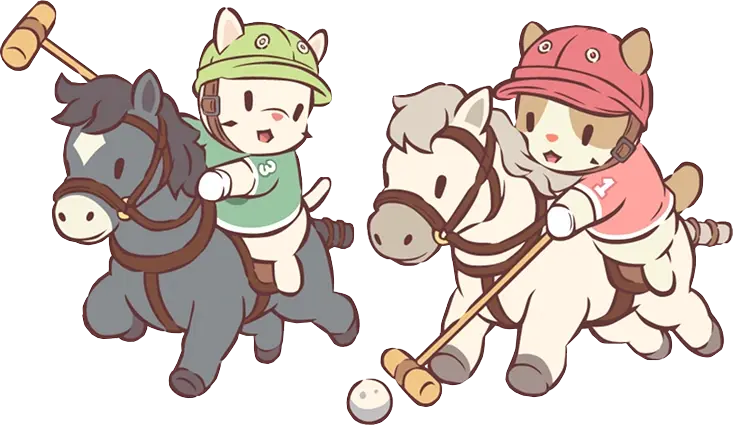
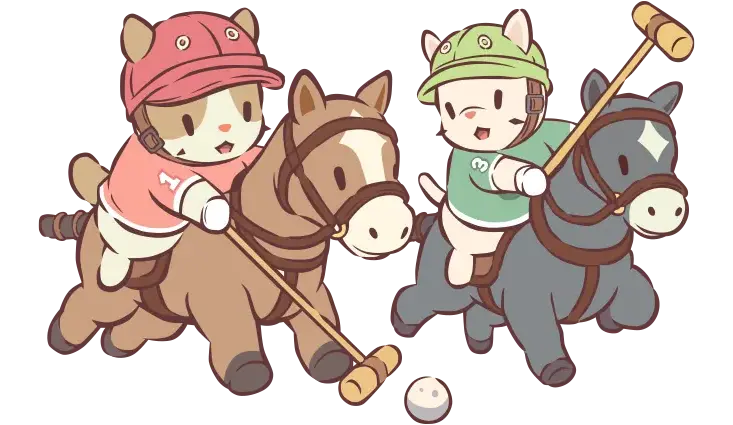
폴로 고양이 아트워크와 공유 이미지를 새 버전으로 교체

diff --git a/index.html b/index.html
@@ -24,7 +24,7 @@
      and thumbnails are fetched by kakao's servers rather than the reader's
      browser. The plain flux host the page is also uploaded to sits behind
      NEOWIZ SSO and hands a crawler a login page instead. -->
-<meta property="og:image" content="https://share-flux.ai.pmang.cloud/catsnsoup/assets/og-share.png">
+<meta property="og:image" content="https://share-flux.ai.pmang.cloud/catsnsoup/assets/og-share.png?v=110">
 <meta property="og:image:width" content="1200">
 <meta property="og:image:height" content="630">
 <meta name="twitter:card" content="summary_large_image">
@@ -890,7 +890,7 @@ window.__csSoundOn = true;
     <div style="width: 180px; height: 3px; background: rgba(154,163,209,.25); border-radius: 2px; overflow: hidden;">
       <div data-ref="loaderBar" style="width: 0%; height: 100%; background: #f0b95c; transition: width .3s ease;"></div>
     </div>
-    <div style="position: absolute; right: max(16px, env(safe-area-inset-right)); bottom: max(14px, env(safe-area-inset-bottom)); font-family: 'Gowun Dodum', sans-serif; font-size: 11px; letter-spacing: 0.5px; color: #fff; pointer-events: none;">ver 1.09</div>
+    <div style="position: absolute; right: max(16px, env(safe-area-inset-right)); bottom: max(14px, env(safe-area-inset-bottom)); font-family: 'Gowun Dodum', sans-serif; font-size: 11px; letter-spacing: 0.5px; color: #fff; pointer-events: none;">ver 1.10</div>
   </div>
 
   <!-- fixed backgrounds -->
@@ -1004,7 +1004,7 @@ window.__csSoundOn = true;
     <div class="cs-polo-hero">
       <div class="cs-hero-stage">
         <div class="cs-hero-cats">
-          <img class="cs-hero-cat cs-meowcat" src="assets/cats_polo.webp" alt="폴로를 즐기는 고양이들" width="908" height="527">
+          <img class="cs-hero-cat cs-meowcat" src="assets/cats_polo.webp?v=110" alt="폴로를 즐기는 고양이들" width="908" height="527">
         </div>
         <div class="cs-hero-brand">
           <img class="cs-hero-logo" src="assets/logo_kr_trim.webp" alt="고양이와 스프" width="554" height="157">
@@ -1220,6 +1220,6 @@ window.__csSoundOn = true;
   </footer>
 </div>
 </div>
-<script src="./app.js?v=1.09"></script>
+<script src="./app.js?v=1.10"></script>
 </body>
 </html>

diff --git a/tests/meow.test.js b/tests/meow.test.js
@@ -15,7 +15,8 @@ test('the meow is delegated by class, not wired per cat', () => {
 });
 
 test('the polo cats meow like the rest of them', () => {
-  const hero = /<img[^>]*src="assets\/cats_polo\.webp"[^>]*>/.exec(html);
+  // The artwork carries a cache-busting query whenever it is redrawn.
+  const hero = /<img[^>]*src="assets\/cats_polo\.webp(\?[^"]*)?"[^>]*>/.exec(html);
   assert.ok(hero, 'the polo hero image is gone');
   assert.match(hero[0], /class="[^"]*\bcs-meowcat\b/, 'the polo cats do not meow');
 });
